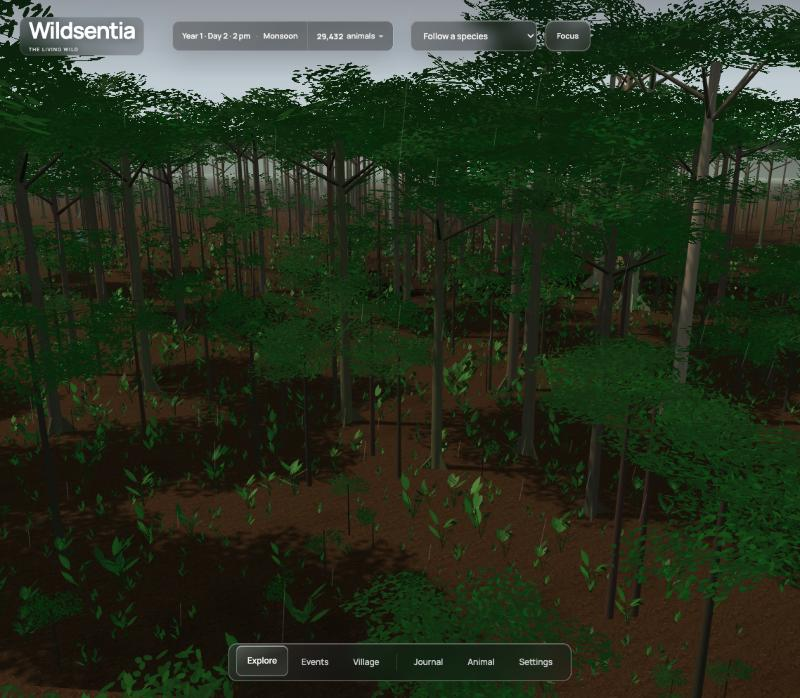
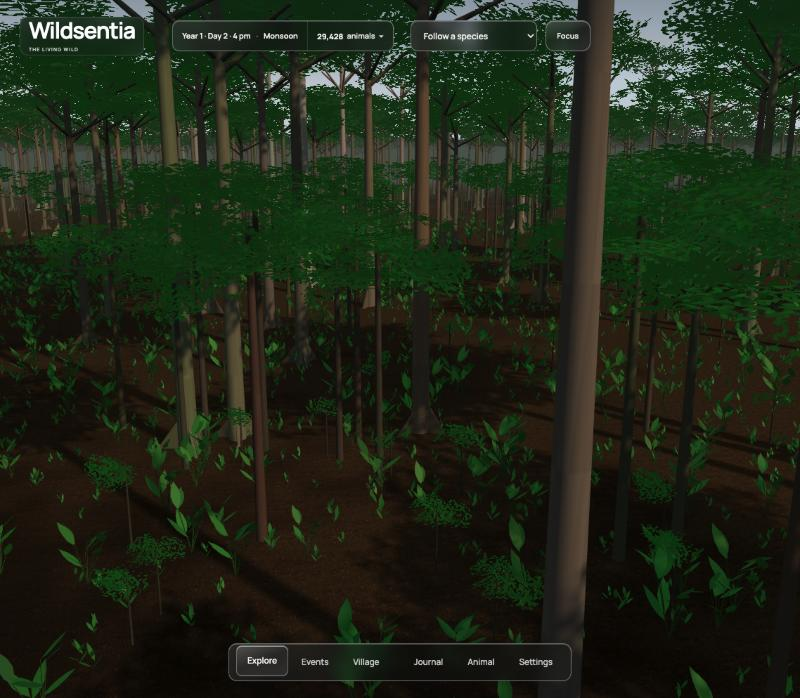
Congo look, refined in the running build: river-patch edges planted, the flood a dark shallow sheet whose shore follows the slope, rippled water, canopy at crown height with shaded edges, greener bais, and dim green depth among the trees

diff --git a/packages/client/src/congoWater.ts b/packages/client/src/congoWater.ts
@@ -15,7 +15,7 @@ export const FLOOD_DEPTH_M = 0.6;
 /** River courses past the loaded ground's edge are drawn this far, so a river never ends at a seam. */
 const MARGIN_M = 1500;
 
-const COLOURS = { main: 0x7d6444, tributary: 0x4a3a26, flood: 0x6b5a3e } as const;
+const COLOURS = { main: 0x7d6444, tributary: 0x4a3a26, flood: 0x3a3020 } as const;
 
 let riverCache: { seed: number; rivers: RiverPath[]; near: ReturnType<typeof riverIndex> } | null = null;
 function riversOf(seed: number): NonNullable<typeof riverCache> {
@@ -23,8 +23,39 @@ function riversOf(seed: number): NonNullable<typeof riverCache> {
   return riverCache;
 }
 
+let ripples: THREE.Texture | null | undefined;
+/** Small wind ripples as a normal map, drawn once on a canvas (none outside a browser). */
+function rippleNormals(): THREE.Texture | null {
+  if (ripples !== undefined) return ripples;
+  if (typeof document === 'undefined') return ripples = null;
+  const size = 128, canvas = document.createElement('canvas');
+  canvas.width = canvas.height = size;
+  const ctx = canvas.getContext('2d');
+  if (!ctx) return ripples = null;
+  const h = (x: number, y: number) => Math.sin(x * 0.29 + Math.sin(y * 0.11) * 2) * 0.5 + Math.sin(y * 0.37 + x * 0.07) * 0.35
+    + Math.sin((x + y) * 0.53) * 0.15;
+  const image = ctx.createImageData(size, size);
+  for (let y = 0; y < size; y++) for (let x = 0; x < size; x++) {
+    const dx = h(x + 1, y) - h(x - 1, y), dy = h(x, y + 1) - h(x, y - 1), o = (y * size + x) * 4;
+    image.data[o] = 128 + dx * 90; image.data[o + 1] = 128 + dy * 90; image.data[o + 2] = 255; image.data[o + 3] = 255;
+  }
+  ctx.putImageData(image, 0, 0);
+  const texture = new THREE.CanvasTexture(canvas);
+  texture.wrapS = texture.wrapT = THREE.RepeatWrapping;
+  return ripples = texture;
+}
+
 function waterMaterial(colour: number, opacity: number): THREE.MeshStandardMaterial {
-  return new THREE.MeshStandardMaterial({ color: colour, roughness: 0.06, metalness: 0.25, transparent: opacity < 1, opacity, depthWrite: opacity >= 1 });
+  const normalMap = rippleNormals();
+  return new THREE.MeshStandardMaterial({ color: colour, roughness: 0.06, metalness: 0.25, transparent: opacity < 1, opacity, depthWrite: opacity >= 1,
+    ...(normalMap ? { normalMap, normalScale: new THREE.Vector2(0.35, 0.35) } : {}) });
+}
+
+/** Texture coordinates from world position: one ripple tile every 24 m wherever the water is. */
+function worldUv(geometry: THREE.BufferGeometry): void {
+  const p = geometry.getAttribute('position'), uv = new Float32Array(p.count * 2);
+  for (let i = 0; i < p.count; i++) { uv[i * 2] = p.getX(i) / 24; uv[i * 2 + 1] = p.getZ(i) / 24; }
+  geometry.setAttribute('uv', new THREE.BufferAttribute(uv, 2));
 }
 
 /** One river's course within the bounds, as a ribbon as wide as its channel at the river's own level. */
@@ -50,6 +81,7 @@ function riverRibbon(river: RiverPath, bounds: GroundBounds, half: number): THRE
   geometry.setAttribute('position', new THREE.Float32BufferAttribute(positions, 3));
   geometry.setIndex(index);
   geometry.computeVertexNormals();
+  worldUv(geometry);
   return geometry;
 }
 
@@ -66,19 +98,25 @@ function floodSheet(seed: number, bounds: GroundBounds): THREE.BufferGeometry | 
     const o = (row * (cols + 1) + col) * 3, x = origin + (c0 + col) * CONGO_STEP_M, z = origin + (r0 + row) * CONGO_STEP_M;
     positions[o] = x; positions[o + 1] = lattice.vertex(c0 + col, r0 + row) + FLOOD_DEPTH_M; positions[o + 2] = z;
   }
+  const wetCorners = new Uint8Array((cols + 1) * (rows + 1));
   for (let row = 0; row < rows; row++) for (let col = 0; col < cols; col++) {
     const x = origin + (c0 + col + 0.5) * CONGO_STEP_M, z = origin + (r0 + row + 0.5) * CONGO_STEP_M;
     const at = near(x, z), half = congoChannelHalfM(at.river, grid);
     // The channel itself carries the river ribbon; the flood stands on the belt beside it.
     if (at.distanceM <= half - CONGO_STEP_M || at.distanceM > half + at.river.floodBeltM) continue;
     const a = row * (cols + 1) + col, b = a + cols + 1;
+    for (const v of [a, a + 1, b, b + 1]) wetCorners[v]!++;
     index.push(a, b, a + 1, b, b + 1, a + 1);
   }
+  // A corner shared with dry cells sinks under the ground, so the shore is where the water meets
+  // the slope inside the cell, not a 50 m step.
+  for (let v = 0; v < wetCorners.length; v++) if (wetCorners[v]! > 0 && wetCorners[v]! < 4) positions[v * 3 + 1]! -= FLOOD_DEPTH_M + 0.4;
   if (index.length === 0) return null;
   const geometry = new THREE.BufferGeometry();
   geometry.setAttribute('position', new THREE.BufferAttribute(positions, 3));
   geometry.setIndex(index);
   geometry.computeVertexNormals();
+  worldUv(geometry);
   return geometry;
 }
 
@@ -96,7 +134,7 @@ export function buildCongoWater(seed: number, bounds: GroundBounds, flooded: boo
   if (flooded) {
     const geometry = floodSheet(seed, bounds);
     if (geometry) {
-      const mesh = new THREE.Mesh(geometry, waterMaterial(COLOURS.flood, 0.62));
+      const mesh = new THREE.Mesh(geometry, waterMaterial(COLOURS.flood, 0.5));
       mesh.name = 'flood'; mesh.receiveShadow = true;
       group.add(mesh);
     }

diff --git a/packages/client/src/congoForest.ts b/packages/client/src/congoForest.ts
@@ -7,14 +7,16 @@ import { buildCongoWater } from './congoWater.js';
 
 /** How far from the camera's focus each kind of plant is drawn one by one (metres). */
 export const KIND_RADIUS_M: Record<CongoKind, number> = {
-  emergent: 420, canopy: 380, midstory: 320, raphia: 380, sapling: 200, marantaceae: 140, herb: 70, sedge: 120, log: 260, rock: 300,
+  emergent: 420, canopy: 380, midstory: 320, raphia: 380, sapling: 200, marantaceae: 140, herb: 70, sedge: 220, log: 260, rock: 300,
 };
 /** The focus moves this far before the near plants are planted again. */
 const REFILL_MOVE_M = 60;
 /** The canopy surface's height over the ground in each forest habitat; bais and rivers are open. */
-export const CANOPY_HEIGHT_M: Record<string, number> = { terra_firme: 32, flooded_forest: 25, swamp_forest: 17 };
+export const CANOPY_HEIGHT_M: Record<string, number> = { terra_firme: 29, flooded_forest: 23, swamp_forest: 15 };
 /** The eye's height over the ground at which the canopy's cut-away starts to close, and is closed. */
 const HOLE_CLOSES_FROM_M = 60, HOLE_CLOSED_AT_M = 140;
+/** Below the first height the eye is inside the forest; above the second it looks over it. */
+const UNDER_CANOPY_FROM_M = 12, UNDER_CANOPY_TO_M = 45;
 /** Trees stand a little into the ground, so a buttress never floats on a slope. */
 const TREE_SINK_M = 0.3;
 const TREES = new Set<CongoKind>(['emergent', 'canopy', 'midstory', 'raphia', 'sapling']);
@@ -38,6 +40,9 @@ export class CongoForest {
   #shell: THREE.Mesh | null = null;
   #water: THREE.Group | null = null;
   readonly #hole = { centre: { value: new THREE.Vector2() }, radius: { value: this.canopyHole.radius } };
+
+  /** 1 while the eye is down among the trees, 0 above the canopy: how much the forest interior closes the view. */
+  underCanopy = 0;
 
   constructor() { this.root.name = 'congo-forest'; }
 
@@ -63,6 +68,8 @@ export class CongoForest {
     const moved = !this.#focus || Math.hypot(focus.x - this.#focus.x, focus.z - this.#focus.z) >= REFILL_MOVE_M;
     if (moved) { this.#focus = focus.clone(); this.#hole.centre.value.set(focus.x, focus.z); this.#plant(focus); }
     this.canopyHole = { x: this.#focus!.x, z: this.#focus!.z, radius };
+    const u = Math.max(0, Math.min(1, (above - UNDER_CANOPY_FROM_M) / (UNDER_CANOPY_TO_M - UNDER_CANOPY_FROM_M)));
+    this.underCanopy = 1 - u * u * (3 - 2 * u);
     return moved;
   }
 
@@ -158,6 +165,18 @@ export class CongoForest {
       lifted[i] = h > 0 ? 1 : 0;
       c.copy(dark).lerp(light, (spatialHash(`canopy-tone:${seed}:${c0 + col}:${r0 + row}`) / 0xffffffff));
       colours.set([c.r, c.g, c.b], i * 3);
+    }
+    // Steep faces (where the canopy drops to a river, a bai or a swamp) are walls of foliage in
+    // their own shade: darker the steeper they are.
+    for (let row = 0; row <= rows; row++) for (let col = 0; col <= cols; col++) {
+      const i = row * (cols + 1) + col, y = positions[i * 3 + 1]!;
+      let drop = 0;
+      for (const [dc, dr] of [[1, 0], [-1, 0], [0, 1], [0, -1]] as const) {
+        const c2 = col + dc, r2 = row + dr;
+        if (c2 >= 0 && r2 >= 0 && c2 <= cols && r2 <= rows) drop = Math.max(drop, Math.abs(y - positions[(r2 * (cols + 1) + c2) * 3 + 1]!));
+      }
+      const shade = Math.max(0.4, Math.min(1, 1 - (drop - 4) / 30));
+      colours[i * 3]! *= shade; colours[i * 3 + 1]! *= shade; colours[i * 3 + 2]! *= shade;
     }
     const index: number[] = [];
     for (let row = 0; row < rows; row++) for (let col = 0; col < cols; col++) {

diff --git a/packages/client/test/congoPlants.test.ts b/packages/client/test/congoPlants.test.ts
@@ -28,7 +28,10 @@ describe('Congo plants', () => {
     const bai = kinds(12_882, 'bai');
     expect(bai.has('sedge')).toBe(true);
     for (const k of ['emergent', 'canopy', 'marantaceae'] as CongoKind[]) expect(bai.has(k)).toBe(false);
-    expect(planCongoPatch(patch(12_883, 'water'), 7)).toEqual([]);
+    // Mid-river grows nothing; a river patch's dry edge grows like the flooded forest beside it.
+    const main = congoRivers(7, CONGO_GRID)[0]!, mid = main.points[Math.floor(main.points.length / 2)]!;
+    const midRiver = Math.round((mid.z + 150) / 300 - 0.5) * 160 + Math.round((mid.x + 150) / 300 - 0.5);
+    expect(planCongoPatch(patch(midRiver, 'water'), 7)).toEqual([]);
   });
   it('never plant in a river channel', () => {
     setWorldGrid(CONGO_GRID);
@@ -44,6 +47,20 @@ describe('Congo plants', () => {
       const at = near(p.x, p.z);
       expect(at.distanceM).toBeGreaterThan(congoChannelHalfM(at.river, CONGO_GRID));
     }
+  });
+  it('plant the dry edge of a river patch, as the flooded forest beside it', () => {
+    setWorldGrid(CONGO_GRID);
+    const rivers = congoRivers(7, CONGO_GRID), near = riverIndex(rivers), main = rivers[0]!;
+    const mid = main.points[Math.floor(main.points.length / 2)]!;
+    // Walk out from mid-river to the first patch whose centre is still in the channel but whose edge is not.
+    let edge = -1;
+    for (let dz = 0; dz < 1200 && edge < 0; dz += 50) {
+      const x = mid.x, z = mid.z + dz, at = near(x, z), half = congoChannelHalfM(at.river, CONGO_GRID);
+      const col = Math.floor((x + 150) / 300), row = Math.floor((z + 150) / 300), c = patchCentre(CONGO_GRID, row * 160 + col);
+      if (near(c.x, c.z).distanceM <= half && near(c.x, c.z + 150).distanceM > half + 30) edge = row * 160 + col;
+    }
+    expect(edge).toBeGreaterThanOrEqual(0);
+    expect(planCongoPatch(patch(edge, 'water'), 7).filter((p) => p.kind === 'canopy').length).toBeGreaterThan(0);
   });
   it('build tall buttressed emergents, Raphia fronds and broad-leaved understory', () => {
     const box = (k: CongoKind) => new THREE.Box3().setFromBufferAttribute(congoPlantGeometry(k).getAttribute('position') as THREE.BufferAttribute);

diff --git a/packages/client/src/congoPlants.ts b/packages/client/src/congoPlants.ts
@@ -22,7 +22,7 @@ const PER_PATCH: Record<string, Partial<Record<CongoKind, number>>> = {
   terra_firme: { emergent: 12, canopy: 190, midstory: 280, sapling: 600, marantaceae: 3500, herb: 14000, log: 6 },
   flooded_forest: { canopy: 150, midstory: 200, raphia: 20, sapling: 260, marantaceae: 900, herb: 3000, log: 4 },
   swamp_forest: { raphia: 200, canopy: 50, midstory: 100, sapling: 160, marantaceae: 1200, herb: 6000 },
-  bai: { sedge: 1200, log: 2 },
+  bai: { sedge: 9000, log: 2 },
 };
 /** Bank rocks tried per patch beside a river; kept only within this distance of the channel's edge. */
 const ROCK_TRIES = 40, ROCK_BANK_M = 80;
@@ -42,7 +42,8 @@ function riversOf(seed: number) {
 
 /** What grows in one patch: the same plants, in the same places, every time. */
 export function planCongoPatch(patch: Pick<PatchView, 'id' | 'habitat'>, seed: number): PlacedPlant[] {
-  const counts = PER_PATCH[patch.habitat];
+  // A river patch is water only where its channel runs; its dry edge grows the flooded forest's plants.
+  const counts = PER_PATCH[patch.habitat === 'water' ? 'flooded_forest' : patch.habitat];
   if (!counts) return [];
   const grid = worldGrid(), centre = patchCentre(grid, patch.id), half = grid.patchM / 2, { near } = riversOf(seed);
   const random = rng(spatialHash(`congo-plants:${seed}:${patch.id}`));
@@ -190,8 +191,8 @@ function plantParts(kind: CongoKind): PlantParts {
     case 'sedge': {
       const blades: THREE.BufferGeometry[] = [];
       for (let k = 0; k < 14; k++) {
-        const h = 0.7 + random() * 0.5, tint = new THREE.Color(0x8a9a4a).lerp(new THREE.Color(0x5e7a32), random());
-        blades.push(finish(new THREE.PlaneGeometry(0.05, h).translate(0, h / 2, 0).rotateX((random() - 0.5) * 0.6).rotateY(random() * Math.PI)
+        const h = 0.7 + random() * 0.7, tint = new THREE.Color(0x8a9a4a).lerp(new THREE.Color(0x5e7a32), random());
+        blades.push(finish(new THREE.PlaneGeometry(0.09, h).translate(0, h / 2, 0).rotateX((random() - 0.5) * 0.6).rotateY(random() * Math.PI)
           .translate((random() - 0.5) * 0.4, 0, (random() - 0.5) * 0.4), () => tint));
       }
       return { blades: merge(blades) };

diff --git a/packages/client/src/environment.ts b/packages/client/src/environment.ts
@@ -46,7 +46,7 @@ export function observerLights(daylight: number, sunIntensity: number, viewDista
   return { sun: sunIntensity * dim, sky: (0.85 + d * 0.45) * dim };
 }
 
-const HAZE = new THREE.Color(0x9ea67c);
+const HAZE = new THREE.Color(0x9ea67c), INTERIOR = new THREE.Color(0x2c3d24);
 
 export class Atmosphere {
   readonly rain: THREE.LineSegments;
@@ -55,6 +55,8 @@ export class Atmosphere {
   readonly dome = new SkyDome();
   /** Congo 1A.5: 0 for the island's clear air, 1 for the rainforest's humid haze. */
   haze = 0;
+  /** Congo 1A.5: 1 while the eye is among the rainforest's trees, 0 above them. */
+  underCanopy = 0;
 
   constructor(private readonly scene: THREE.Scene, private readonly sun: THREE.DirectionalLight) {
     const geometry = new THREE.BufferGeometry();
@@ -82,6 +84,12 @@ export class Atmosphere {
       this.scene.fog.near = Math.max(200 - 120 * this.haze, viewDistance * 0.9);
       // Congo 1A.5: the rainforest's humid air, a grey-green haze (dimmed with the daylight).
       if (this.haze > 0) this.scene.fog.color.lerp(HAZE.clone().multiplyScalar(0.25 + 0.75 * state.daylight), 0.6 * this.haze);
+      // Among the trees the view closes into dim green depth a few hundred metres off.
+      if (this.underCanopy > 0) {
+        this.scene.fog.color.lerp(INTERIOR.clone().multiplyScalar(0.3 + 0.7 * state.daylight), 0.75 * this.underCanopy);
+        this.scene.fog.far += (Math.min(this.scene.fog.far, 650) - this.scene.fog.far) * this.underCanopy;
+        this.scene.fog.near += (Math.min(this.scene.fog.near, 40) - this.scene.fog.near) * this.underCanopy;
+      }
     }
     const lights = observerLights(state.daylight, state.sunIntensity, viewDistance);
     this.sun.intensity = lights.sun;

diff --git a/packages/client/src/groundTint.ts b/packages/client/src/groundTint.ts
@@ -56,7 +56,7 @@ const CONGO_FLOOR: Record<string, { near: THREE.Color; far: THREE.Color }> = {
   flooded_forest: { near: hex(0x6a5844), far: hex(0x382f22) },
   swamp_forest: { near: hex(0x66603f), far: hex(0x37341f) },
 };
-const CONGO_BAI = { lush: { near: hex(0xc6d08a), far: hex(0x6f8a3e) }, mud: { near: hex(0xb49a74), far: hex(0x6a5a3c) } };
+const CONGO_BAI = { lush: { near: hex(0xa6c466), far: hex(0x5e8a34) }, mud: { near: hex(0xb49a74), far: hex(0x6a5a3c) } };
 const isCongoHabitat = (habitat: string): boolean => habitat in HABITAT_ANALOGUE;
 
 /** The two colours for one patch, in linear RGB. */
@@ -120,9 +120,10 @@ export function groundLayers(patch: GroundPatch, season: string): GroundLayers {
     const forest = patch.habitat === 'terra_firme', wetForest = patch.habitat !== 'bai' && !forest;
     return {
       litter: round(patch.habitat === 'bai' ? 0 : forest ? 0.85 + 0.1 * leafFall : 0.5),
-      bare: round(patch.habitat === 'bai' ? 0.3 : forest ? 0.1 : 0.05),
-      // Low: the stand pattern spreads it in tens-of-metres blocks over 48 km, which reads as tiles.
-      moss: round(wetForest ? 0.15 + 0.1 * wet : 0.05),
+      bare: round(patch.habitat === 'bai' ? 0.08 : forest ? 0.1 : 0.05),
+      // Low under forest: the stand pattern spreads it in tens-of-metres blocks over 48 km, which reads
+      // as tiles. A bai's wet sward is green.
+      moss: round(patch.habitat === 'bai' ? 0.5 + 0.3 * wet : wetForest ? 0.15 + 0.1 * wet : 0.05),
     };
   }
   return {

diff --git a/packages/client/test/environment.test.ts b/packages/client/test/environment.test.ts
@@ -89,3 +89,18 @@ describe('the Congo haze (1A.5)', () => {
     expect(hsl.h).toBeGreaterThan(0.2); expect(hsl.h).toBeLessThan(0.45); // toward green
   });
 });
+
+describe('inside the Congo forest (1A.5)', () => {
+  it('closes the view into dim green depth while the eye is among the trees', () => {
+    const fogAt = (under: number) => {
+      const scene = new THREE.Scene(); scene.background = new THREE.Color(); scene.fog = new THREE.Fog(0, 200, 2600);
+      const atmosphere = new Atmosphere(scene, new THREE.DirectionalLight());
+      atmosphere.haze = 1; atmosphere.underCanopy = under;
+      atmosphere.update(10 * 3600, 'transition', 3, new THREE.Vector3(), false, 20);
+      return scene.fog as THREE.Fog;
+    };
+    const above = fogAt(0), inside = fogAt(1);
+    expect(inside.far).toBeLessThanOrEqual(700);
+    expect(inside.color.getHSL({ h: 0, s: 0, l: 0 }).l).toBeLessThan(above.color.getHSL({ h: 0, s: 0, l: 0 }).l * 0.6);
+  });
+});

diff --git a/packages/client/test/congoForest.test.ts b/packages/client/test/congoForest.test.ts
@@ -61,9 +61,11 @@ describe('the Congo forest layer', () => {
     const floor = ground(deep.x, deep.z);
     forest.update(new THREE.Vector3(deep.x, 0, deep.z), new THREE.Vector3(deep.x, floor + 12, deep.z));
     expect(forest.canopyHole).toEqual({ x: deep.x, z: deep.z, radius: KIND_RADIUS_M.canopy - 40 });
+    expect(forest.underCanopy).toBe(1); // the eye 12 m up, among the trunks
     // From above the canopy the forest is seen whole: no cut-away.
     forest.update(new THREE.Vector3(deep.x + 500, 0, deep.z), new THREE.Vector3(deep.x + 500, floor + 400, deep.z));
     expect(forest.canopyHole.radius).toBe(0);
+    expect(forest.underCanopy).toBe(0);
   });
   it('draws the rivers, and the flood only in a flooding season', () => {
     setWorldGrid(CONGO_GRID);

diff --git a/packages/client/src/main.ts b/packages/client/src/main.ts
@@ -809,7 +809,7 @@ function renderFrame(dt: number, now: number): void {
     nature.setDistantLight(store.world ? atmosphereAt(liveWorldTime(now)!, store.world.season).daylight : 1);
   }
   groundCover?.update(camera.position, 2);
-  congoForest?.update(follow.target, camera.position);
+  if (congoForest) { congoForest.update(follow.target, camera.position); atmosphere.underCanopy = congoForest.underCanopy; }
   communityLayer.update(dt, camera.position, quality.tier, reducedMotion.matches, now, followedPersonId);
   const communityText = communityLayer.playbackNotice(now, reducedMotion.matches);
   if (communityMotionNotice.textContent !== communityText) communityMotionNotice.textContent = communityText;

diff --git a/packages/client/test/congoWater.test.ts b/packages/client/test/congoWater.test.ts
@@ -39,7 +39,9 @@ describe('Congo rivers and flood', () => {
     expect(index.count).toBeGreaterThan(0);
     for (let k = 0; k < index.count; k += 97) {
       const i = index.getX(k);
-      expect(p.getY(i)).toBeCloseTo(lattice.sample(p.getX(i), p.getZ(i)) + 0.6, 3);
+      // 0.6 m deep inside the belt; at its shore a corner sinks under the ground, so the edge follows the slope.
+      const over = p.getY(i) - lattice.sample(p.getX(i), p.getZ(i));
+      expect([0.6, -0.4].some((d) => Math.abs(over - d) < 1e-3)).toBe(true);
       const at = near(p.getX(i), p.getZ(i));
       expect(at.distanceM).toBeLessThanOrEqual(congoChannelHalfM(at.river, CONGO_GRID) + at.river.floodBeltM + 50);
     }
